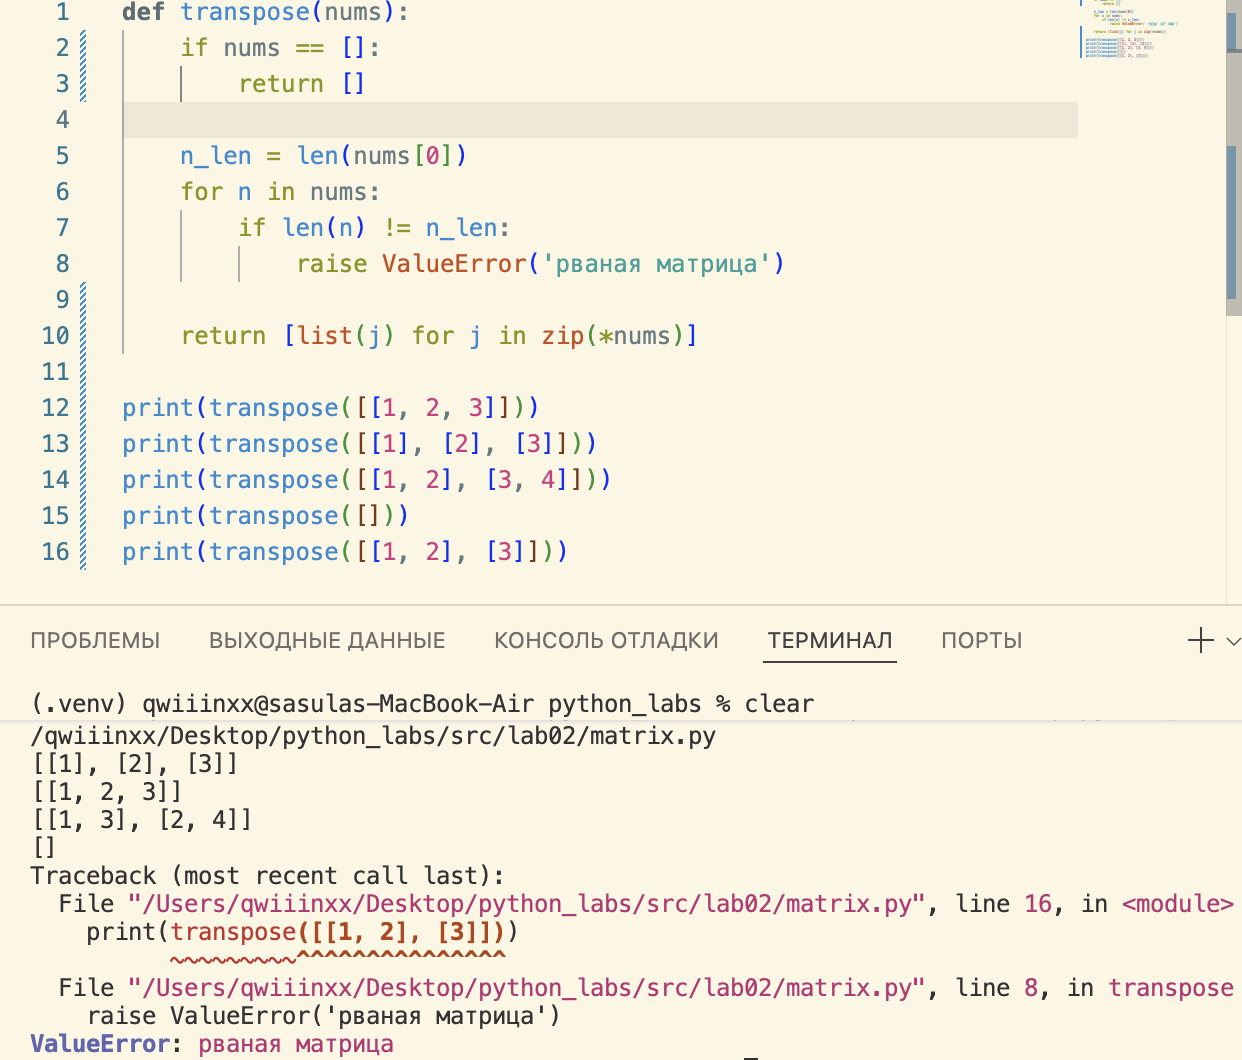
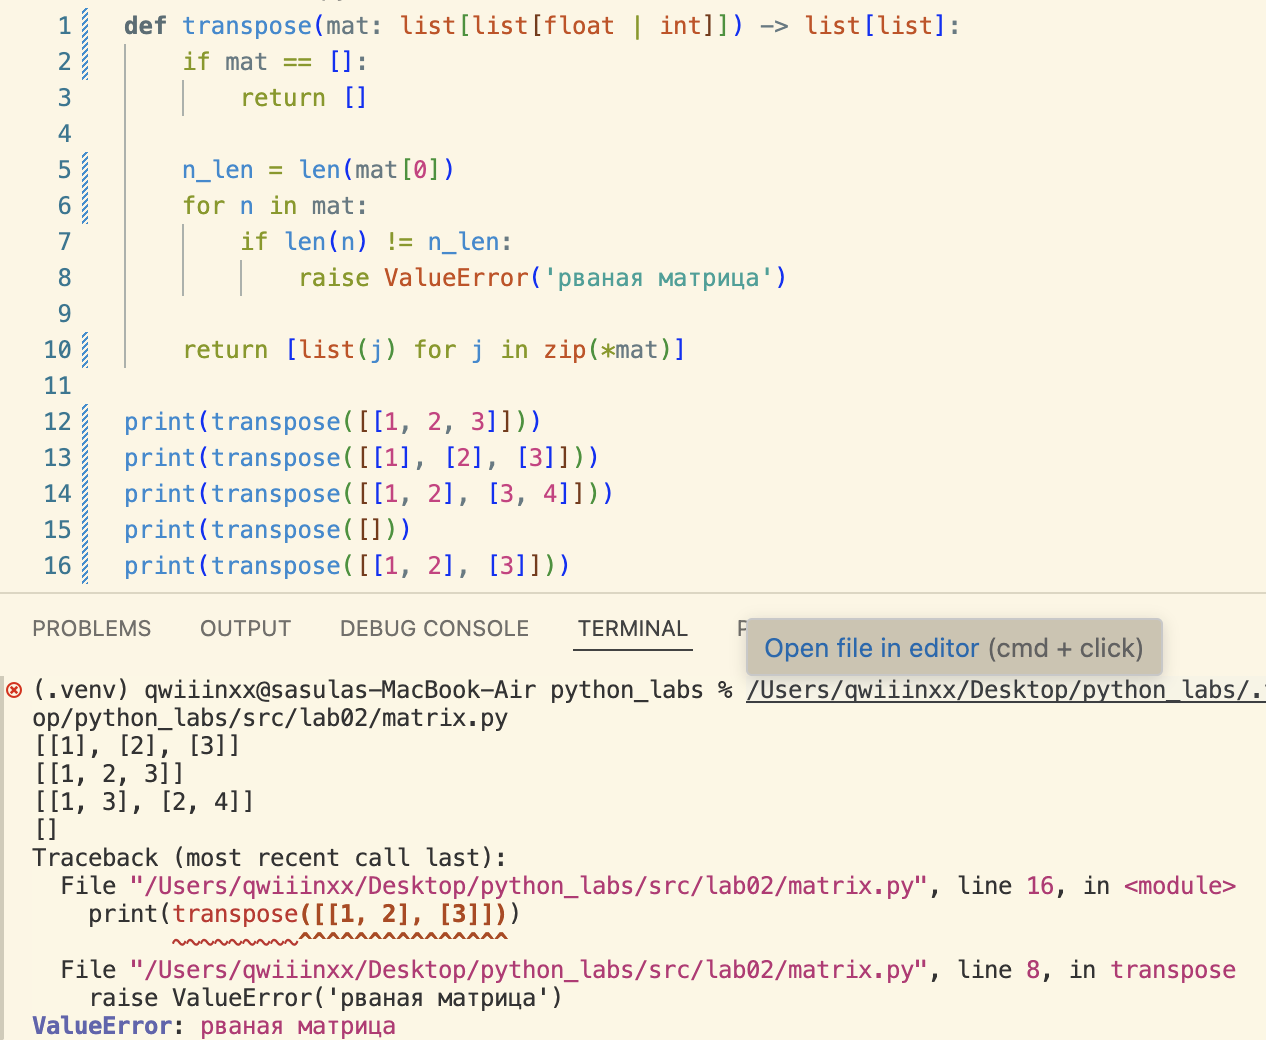
new

diff --git a/src/lab02/matrix.py b/src/lab02/matrix.py
@@ -1,13 +1,13 @@
-def transpose(nums):
-    if nums == []:
+def transpose(mat: list[list[float | int]]) -> list[list]:
+    if mat == []:
         return []
     
-    n_len = len(nums[0])
-    for n in nums:
+    n_len = len(mat[0])
+    for n in mat:
         if len(n) != n_len:
             raise ValueError('рваная матрица')
     
-    return [list(j) for j in zip(*nums)]
+    return [list(j) for j in zip(*mat)]
 
 # print(transpose([[1, 2, 3]]))
 # print(transpose([[1], [2], [3]]))
@@ -15,53 +15,32 @@ def transpose(nums):
 # print(transpose([]))
 # print(transpose([[1, 2], [3]]))
 
-def row_sums(nums):
-    n_len = len(nums[0])
-    for n in nums:
+def row_sums(mat: list[list[float | int]]) -> list[float]: # ПЕРЕДЕЛАТЬ!!!! img05
+    n_len = len(mat[0])
+    for n in mat:
         if len(n) != n_len:
             raise ValueError('рваная')
     
     result = []
-    for i in range(len(nums)-1):
-        if len(nums[i]) == 3:
-            sum1 = nums[i][0] + nums[i][1] + nums[i][2]
-            result.append(sum1)
-            sum2 = nums[i+1][0] + nums[i+1][1] + nums[i+1][2]
-            result.append(sum2)
-        else:
-            sum1 = nums[i][0] + nums[i][1]
-            result.append(sum1)
-            sum2 = nums[i+1][0] + nums[i+1][1]
-            result.append(sum2)
-
+    for i in mat:
+        result.append(sum(i))
     return result
 
 # print(row_sums([[1, 2, 3], [4, 5, 6]]))
 # print(row_sums([[-1, 1], [10, -10]]))
 # print(row_sums([[0, 0], [0, 0]]))
+# print(row_sums([[1, 2, 4, 9, 4, 6], [3, 3, 5, 7, 5, 6]]))
 # print(row_sums([[1, 2], [3]]))
 
-def col_sums(nums):
-    n_len = len(nums[0])
-    for n in nums:
+def col_sums(mat: list[list[float | int]]) -> list[float]:
+    n_len = len(mat[0])
+    for n in mat:
         if len(n) != n_len:
             raise ValueError('рваная')
     
     result = []
-    for i in range(len(nums)-1): # [[1, 2, 3], [4, 5, 6]] -> [5, 7, 9]
-        if len(nums[i]) == 3:
-            sum1 = nums[i][0] + nums[i+1][0]
-            result.append(sum1)
-            sum2 = nums[i][1] + nums[i+1][1]
-            result.append(sum2)
-            sum3 = nums[i][2] + nums[i+1][2]
-            result.append(sum3)
-        else:                                # [[-1, 1], [10, -10]] -> [9, -9]
-            sum1 = nums[i][0] + nums[i+1][0]
-            result.append(sum1)
-            sum2 = nums[i][1] + nums[i+1][1]
-            result.append(sum2)
-
+    for i, e in zip(mat[0], mat[1]):
+        result.append(i + e)
     return result
 
 print(col_sums([[1, 2, 3], [4, 5, 6]])) # [5, 7, 9]

diff --git a/src/lab02/arrays.py b/src/lab02/arrays.py
@@ -1,4 +1,4 @@
-def min_max(nums): # [3, -1, 5, 5, 0]
+def min_max(nums: list[float | int]) -> tuple[float | int, float | int]: # [3, -1, 5, 5, 0]
     if not nums:
         raise ValueError('Список пуст')
     return (min(nums), max(nums))
@@ -10,7 +10,7 @@ def min_max(nums): # [3, -1, 5, 5, 0]
 # print(min_max([]))                 
 # print(min_max([1.5, 2, 2.0, -3.1]))
 
-def unique_sorted(nums):
+def unique_sorted(nums: list[float | int]) -> list[float | int]:
     if nums == []:
         return []
     else:
@@ -22,9 +22,9 @@ def unique_sorted(nums):
 # print(unique_sorted([1.0, 1, 2.5, 2.5, 0]))
 
 
-def flatten(nums):
+def flatten(mat: list[list | tuple]) -> list:
     result = []
-    for i in nums:
+    for i in mat:
         if not isinstance(i, (tuple, list)):
             raise TypeError('строка не строка строк матрицы')
         result.extend(i)

diff --git a/src/lib/text.py b/src/lib/text.py
@@ -38,13 +38,13 @@ def tokenize(text: str) -> list[str]:
 # print(tokenize("emoji 😀 не слово"))
 
 
-def key_sort(item: tuple[str, int]) -> tuple[int, str]:
+def count_freq(item: tuple[str, int]) -> tuple[int, str]:
     word, counter = item
     return - counter, word
 
 def top_n(freq: dict[str, int], n: int = 5) -> list[tuple[str, int]]:
     items = list(freq.items())
-    items.sort(key=key_sort)
+    items.sort(key=count_freq)
     return items[:n]
 
 print(top_n({"a":3,"b":2,"c":1}, n=2)) # [('a', 3), ('b', 2)]

diff --git a/src/lab03/text_stats.py b/src/lab03/text_stats.py
@@ -1,0 +1,16 @@
+import sys
+from lib.text import tokenize, count_freq, top_n
+
+def main():
+    text = sys.stdin.read()
+    tokens = tokenize(text)
+    freq = count_freq(tokens)
+    
+    print(f"Всего слов: {len(tokens)}")
+    print(f"Уникальных слов: {len(freq)}")
+    print("Топ-5:")
+    for word, count in top_n(freq, n=5):
+        print(f"{word}:{count}")
+
+if __name__ == "__main__":
+    main()

diff --git a/README.md b/README.md
@@ -41,10 +41,32 @@
 
 ### Задание 1
 #### 1 функция
+```python
+def min_max(nums):
+    if not nums:
+        raise ValueError('Список пуст')
+    return (min(nums), max(nums))
+```
 ![Картинка 1](./images/lab02/img01.png)
 #### 2 функция
+```python
+def unique_sorted(nums: list[float | int]) -> list[float | int]:
+    if nums == []:
+        return []
+    else:
+        return sorted(set(nums))
+```
 ![Картинка 2](./images/lab02/img02.png)
 #### 3 функция
+```python
+def flatten(mat: list[list | tuple]) -> list:
+    result = []
+    for i in mat:
+        if not isinstance(i, (tuple, list)):
+            raise TypeError('строка не строка строк матрицы')
+        result.extend(i)
+    return result
+```
 ![Картинка 3](./images/lab02/img03.png)
 
 

diff --git a/src/lab03/README.md b/src/lab03/README.md
@@ -1,0 +1,8 @@
+### Задание А
+#### функция normalize
+![Картинка 1](../../images/lab03/img01.png)
+функция tokenize
+![Картинка 2](../../images/lab03/img02.png)
+функция top_n
+![Картинка 3](../../images/lab03/img03.png)
+### Задание В
